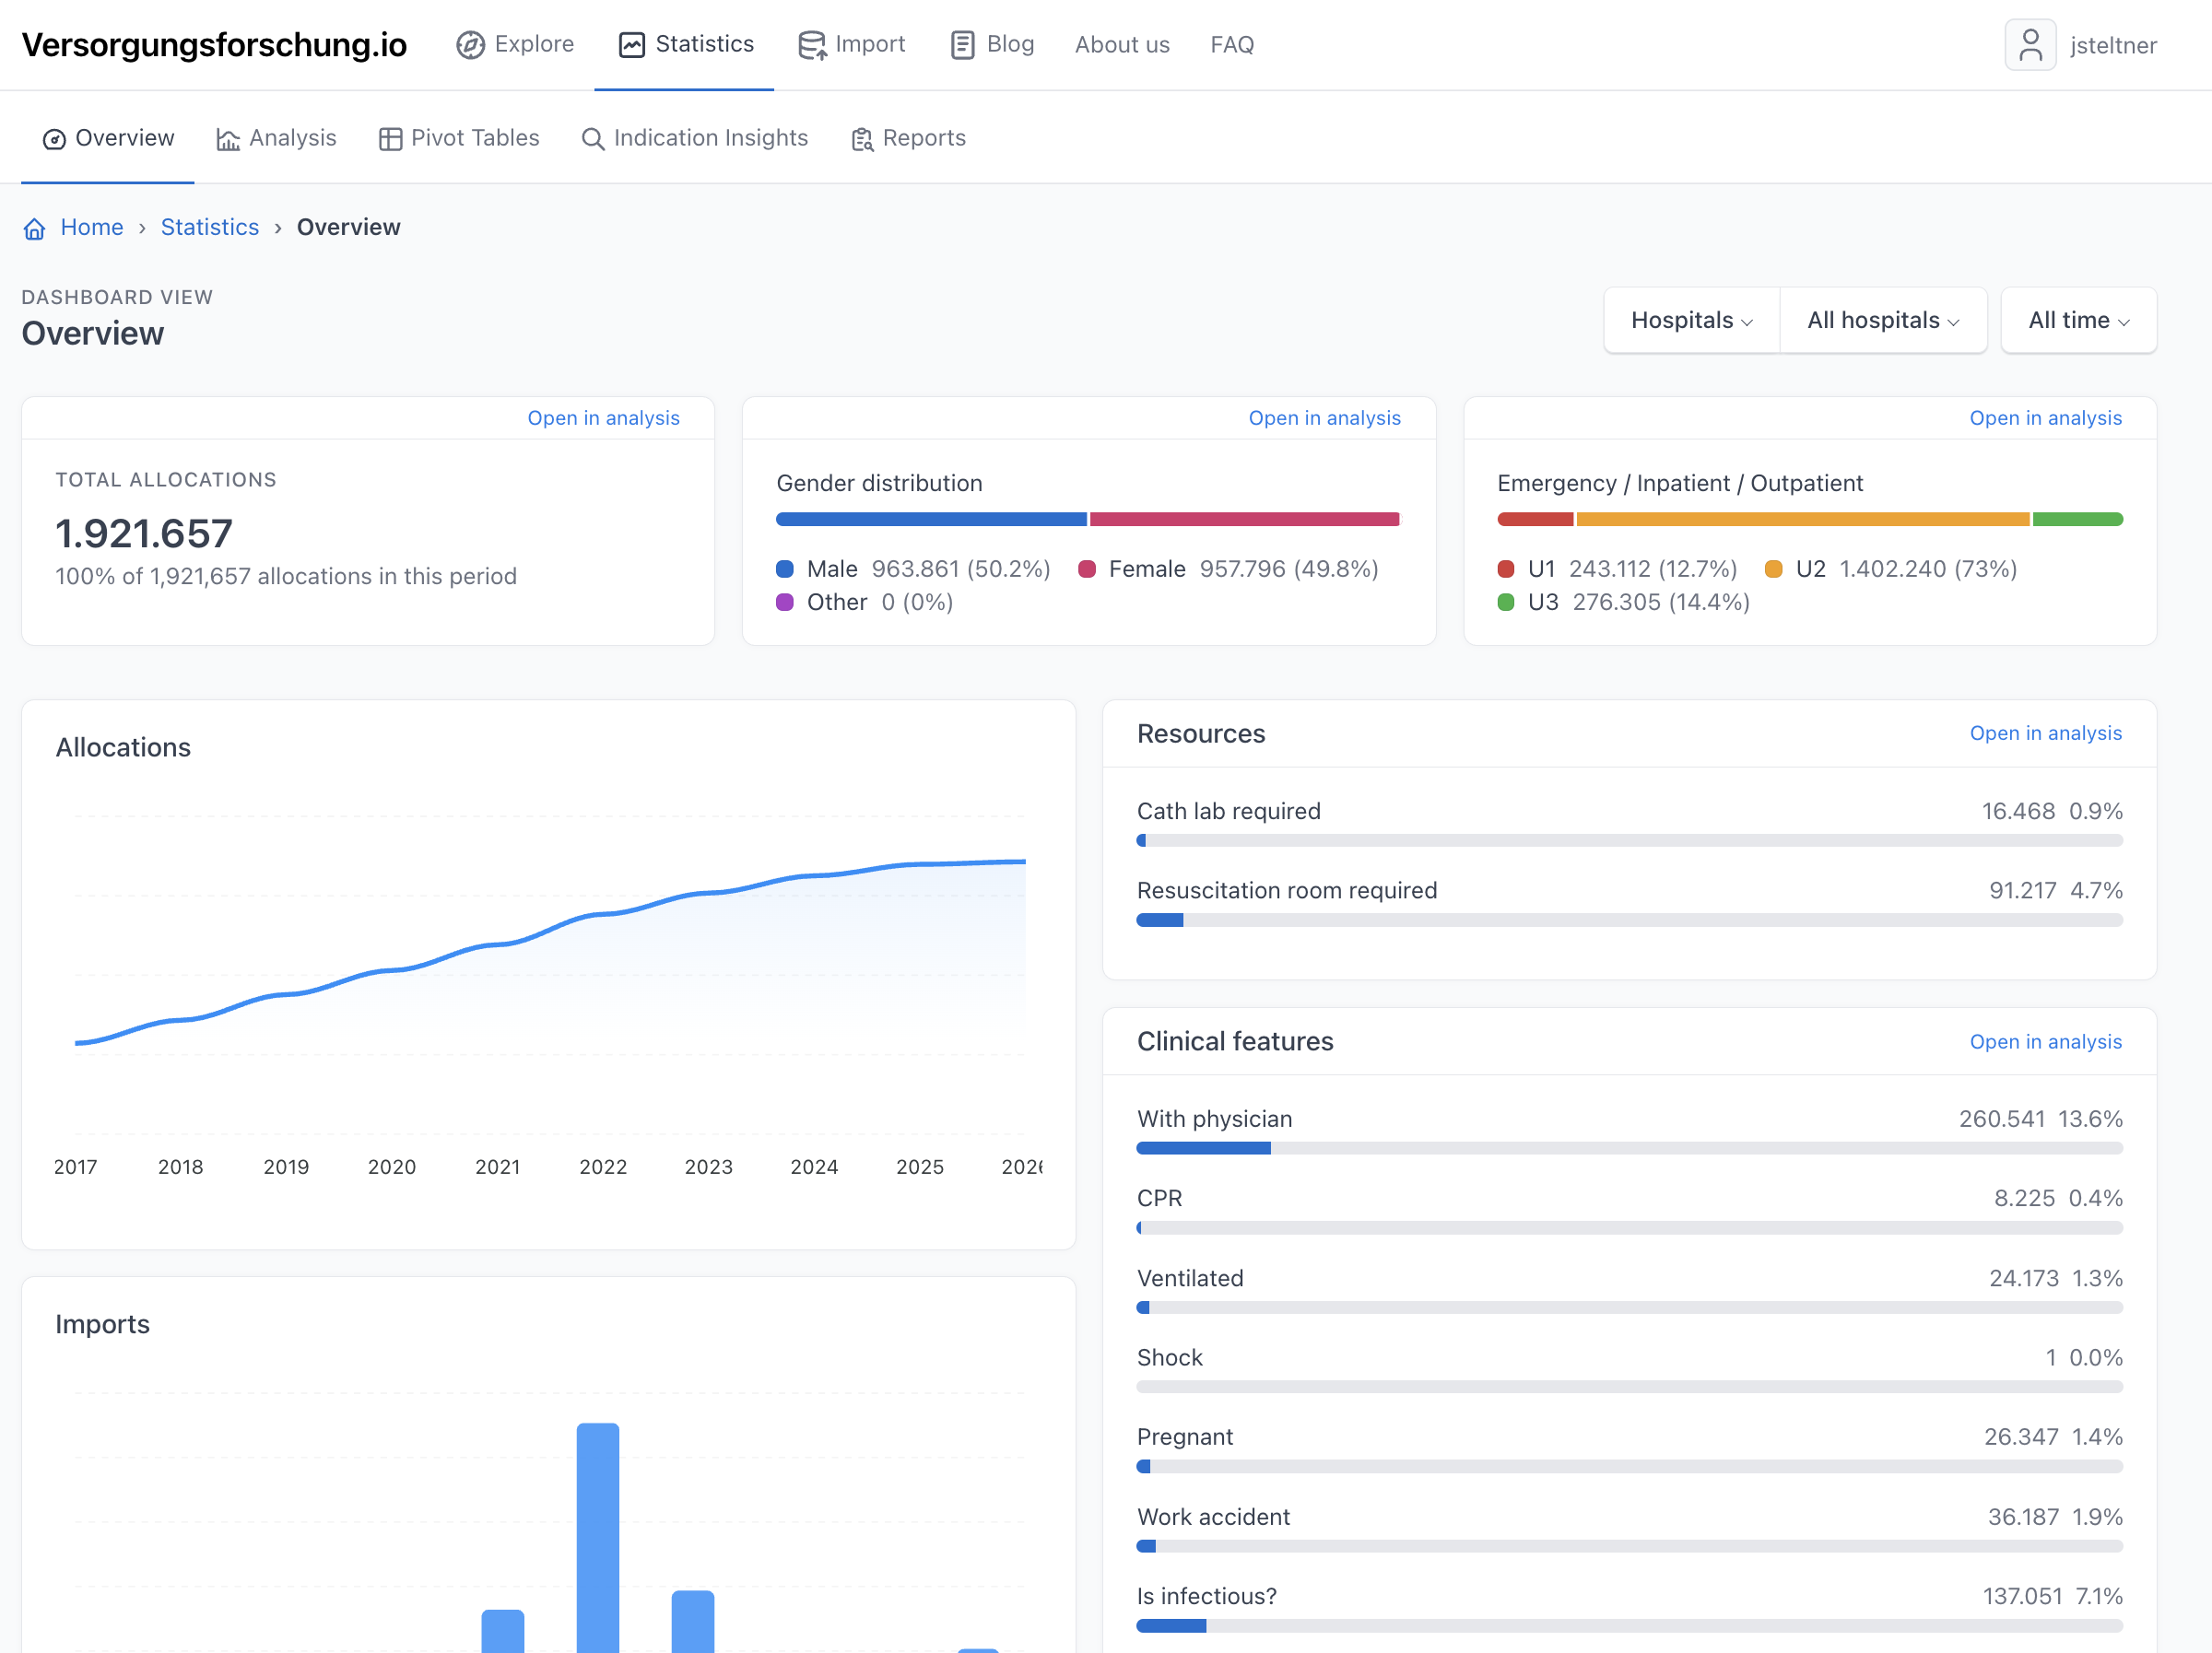
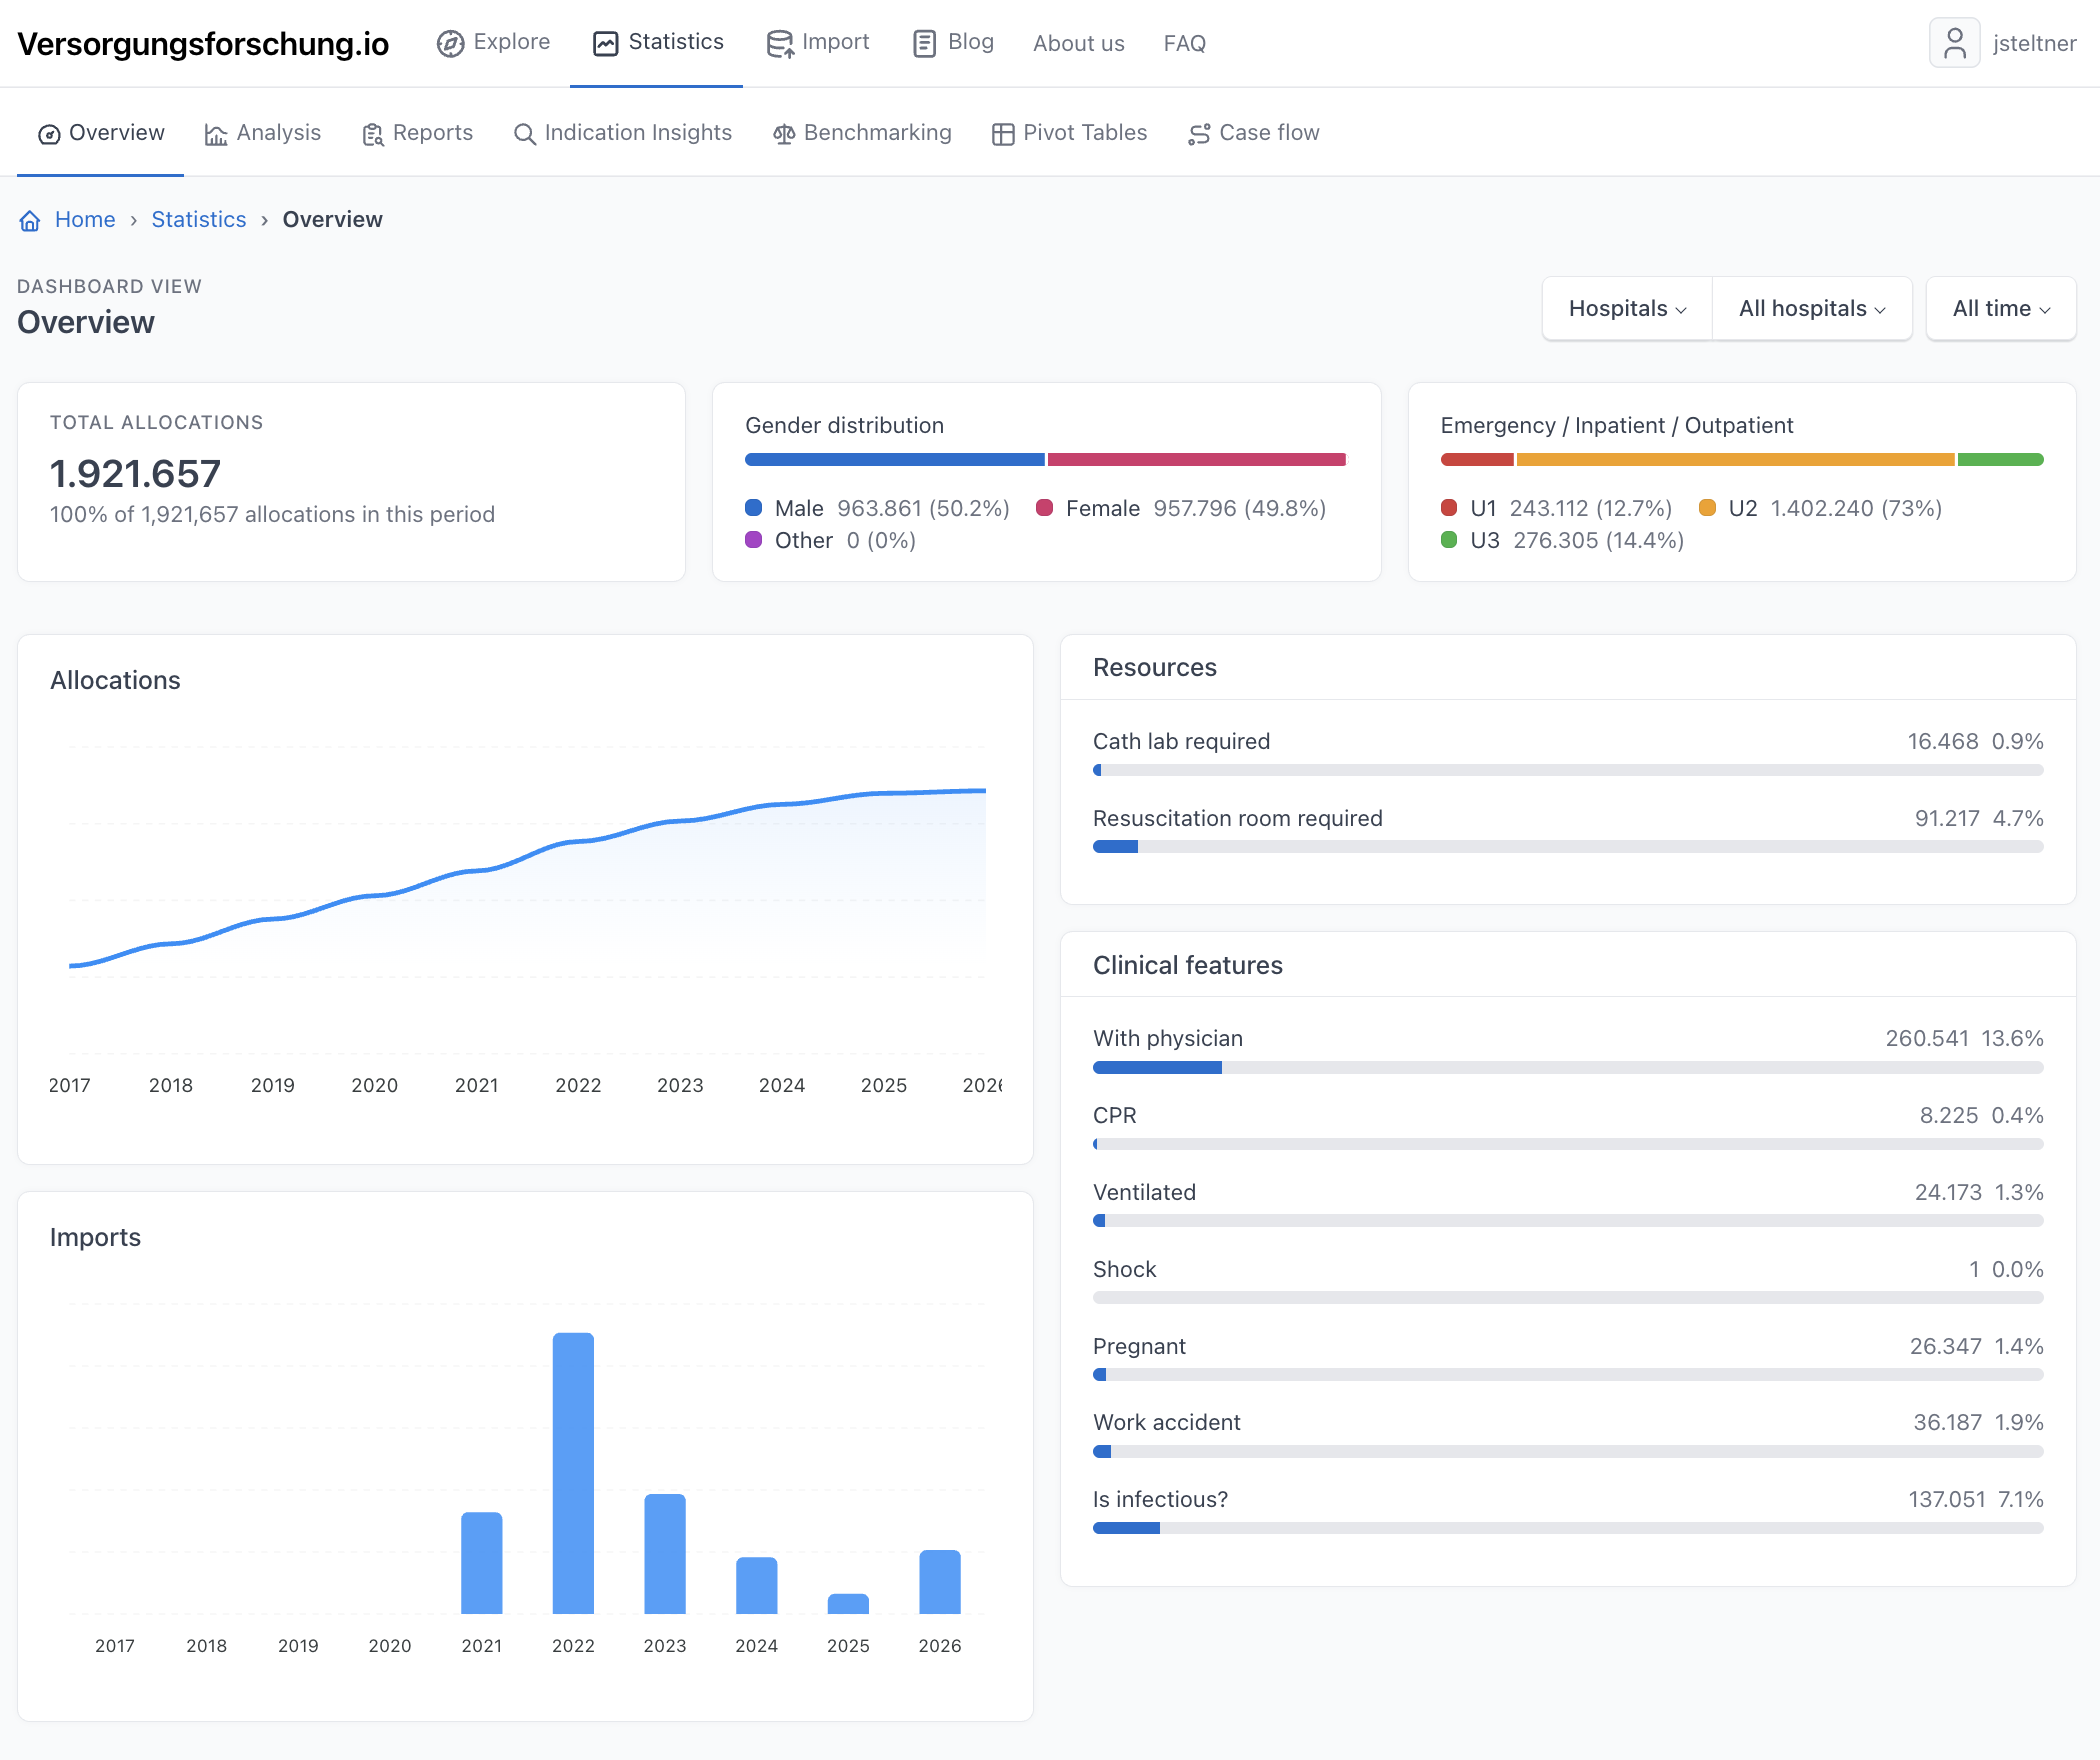
style(home): improve screenshot frame visibility in homepage carousel
Strengthen the frame border and add a light shadow so screenshots stand out
against the section background, and tune caption gradient and control colors.

diff --git a/assets/styles/pages/home.css b/assets/styles/pages/home.css
@@ -211,8 +211,9 @@
 }
 
 .home-screenshot-carousel {
-    --home-screenshot-frame: #b8c0cc;
-    --home-screenshot-frame-strong: #8b95a5;
+    --home-screenshot-frame: #9aa8b8;
+    --home-screenshot-frame-strong: #6b7280;
+    --tblr-carousel-caption-color: #4b5563;
     --tblr-carousel-indicator-active-bg: var(--home-screenshot-frame-strong);
 }
 
@@ -277,6 +278,9 @@
     background: #fff;
     border: 1px solid var(--home-screenshot-frame);
     border-radius: var(--tblr-border-radius);
+    box-shadow:
+        0 0 0 1px rgba(255, 255, 255, 0.65) inset,
+        0 2px 14px rgba(15, 23, 42, 0.12);
     line-height: 0;
     overflow: hidden;
 }
@@ -297,4 +301,26 @@
 
 .home-screenshot-link:hover img {
     opacity: 0.92;
+}
+
+.home-screenshot-carousel .carousel-caption-background {
+    height: 26%;
+    background: linear-gradient(0deg, rgba(255, 255, 255, 0.68), rgba(255, 255, 255, 0));
+    pointer-events: none;
+    z-index: 1;
+}
+
+.home-screenshot-carousel .carousel-caption {
+    right: 10%;
+    bottom: 2.75rem;
+    left: 10%;
+    padding-top: 0;
+    padding-bottom: 0;
+    pointer-events: none;
+    z-index: 2;
+}
+
+.home-screenshot-carousel .carousel-caption p {
+    font-size: var(--tblr-font-size-h4);
+    line-height: 1.5;
 }